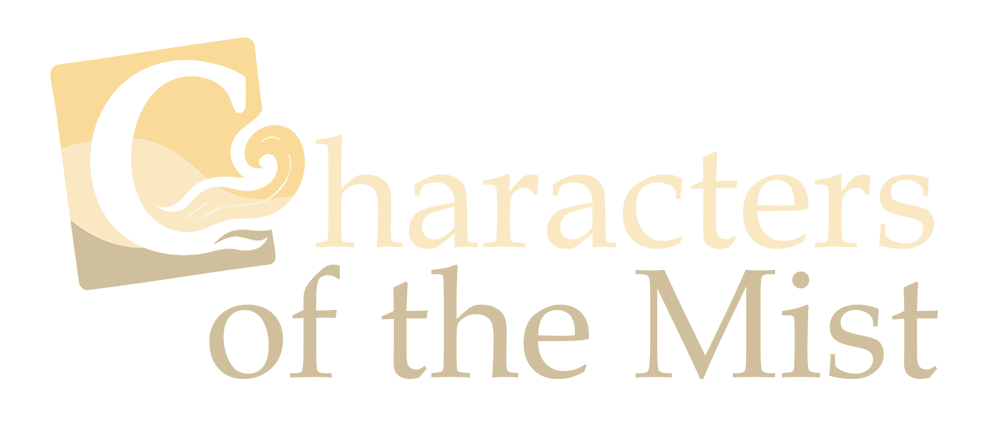
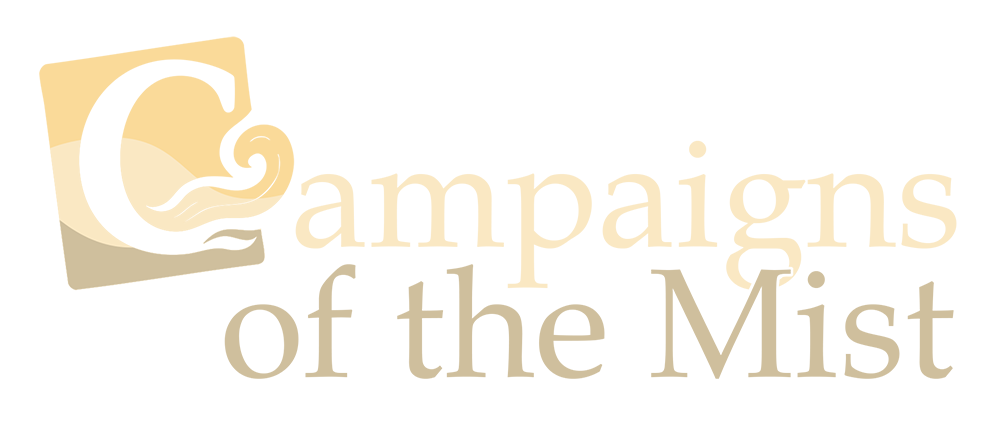
configured spanish and rewrote readme for release

Changed region(s): [[0.031, 0.0616, 0.961, 0.9242], [0.124, 0.6469, 0.217, 0.6777]]

diff --git a/src/i18n/config.ts b/src/i18n/config.ts
@@ -5,6 +5,7 @@ import LanguageDetector from 'i18next-browser-languagedetector';
 import en from '../../messages/en.json';
 import fr from '../../messages/fr.json';
 import de from '../../messages/de.json';
+import es from '../../messages/es.json';
 
 i18n
   .use(LanguageDetector)
@@ -13,7 +14,8 @@ i18n
     resources: {
       en: { translation: en },
       fr: { translation: fr },
-      de: { translation: de }
+      de: { translation: de },
+      es: { translation: es },
     },
     fallbackLng: 'en',
     interpolation: {

diff --git a/README.md b/README.md
@@ -1,77 +1,94 @@
-![Characters of the Mist Header](./assets/banner.png)
+![Campaigns of the Mist](./assets/banner.png)
 
-**Characters of the Mist** is a modern, privacy-first, and completely client-side character sheet manager built for TTRPGs like *City of Mist*, *Otherscape*, and *Legend in the Mist*.  It's designed from the ground up to be fast, intuitive, and powerful, giving you full control over your character data without ever needing a server.  All your data is saved directly in your browser's local storage. 
+# Campaigns of the Mist
 
-This tool is a complete rewrite of a previous alpha version, focusing on a robust, scalable architecture to make future updates and new game systems easier to implement. 
+**Campaigns of the Mist** is a fast, private, entirely client-side companion for running and playing [Mist Engine](https://cityofmist.co) tabletop RPGs — *Legend in the Mist*, *Metro: Otherscape*, and *City of Mist*. There's no server and no account: everything you make lives in your own browser, and it installs as an app that works fully offline.
 
----
-## ✨ Key Features
-
-This application is more than just a character sheet; it's a full-fledged character management system packed with features to make your gameplay experience a breeze.
-
-* **Fully Dynamic Character Sheet:** No more fixed layouts. Add as many Theme Cards, trackers, and components as your character needs. The sheet adapts to you. 
-* **Powerful File System Drawer:** A versatile **Drawer** acts as a complete file system for all your character components.  It features full drag-and-drop organization, folder creation, and two different view modes for managing your items. 
-* **Intuitive Drag-and-Drop:** Almost everything is draggable. Reorder your cards and trackers on the sheet, move items between folders in the Drawer, or even load an entire character by dragging their sheet from the Drawer onto the main play area. 
-* **Robust State Management:** With a state-of-the-art Undo/Redo system (`Ctrl+Z` / `Ctrl+Y`), you can easily fix mistakes whether they happen on the character sheet or in the Drawer. 
-* **Command Palette:** For the power users out there, press `Ctrl+K` to summon the **Command Palette**.  Find and execute any action in the app without ever touching your mouse. 
-* **Full Localization & Theming:** The app is available in multiple languages and features multiple color themes assorted to the Mist TTRPGs, along with a light/dark mode toggle. 
-* **Legacy Data Migration:** A built-in tool helps you seamlessly migrate character sheets from the old alpha version of the app to the new format. 
+It's an unofficial, fan-made project (a full rewrite of the old *Characters of the Mist* alpha, now rebranded as it grew from a character-sheet app into a whole table workspace). This README is for people who want to **run or hack on the code** — if you just want to *use* the app, it's at [campaignsofthemist.app](https://www.campaignsofthemist.app/) and it teaches itself through its built-in tutorials, so you won't find a feature list here.
 
 ---
-## 🛠️ Tech Stack
 
-This project is built with a modern, robust, and scalable tech stack to ensure a high-quality development and user experience.
+## Tech stack
 
-* **Build Tool:** [Vite](https://vitejs.dev/) for lightning-fast development and optimized production builds
-* **Framework:** [React](https://react.dev/)
-* **Language:** [TypeScript](https://www.typescriptlang.org/)
-* **Styling:** [Tailwind CSS](https://tailwindcss.com/)
-* **UI Components:** [Shadcn/UI](https://ui.shadcn.com/) for accessible component primitives
-* **State Management:** [Zustand](https://zustand-demo.pmnd.rs/) with `persist` and `temporal` middleware for state persistence and undo/redo functionality
-* **Drag & Drop:** [dnd-kit](https://dndkit.com/) for a lightweight and powerful drag-and-drop experience
-* **Animations:** [Framer Motion](https://www.framer.com/motion/) for smooth UI animations
-* **Command Palette:** [cmdk](https://cmdk.paco.me/)
-* **Localization:** [react-i18next](https://react.i18next.com/) for internationalization
-* **PWA:** [vite-plugin-pwa](https://vite-pwa-org.netlify.app/) for Progressive Web App capabilities 
-
----
-### 🌍 Contributing to Translations
-
-I'm thrilled you're interested in helping translate Characters of the Mist! The application is built with localization in mind, and contributions from the community are warmly welcome. The entire tutorial is also fully localized. The process is straightforward, even if you're not a developer.
-
-Here’s how you can add a new language:
-
-1.  **Get the Template File**
-    All translation keys are located in the English source file at `messages/en.json`. This is the file you will use as a template.
-
-2.  **Create Your Language File**
-    Make a copy of `en.json` in the same directory (`messages/`) and rename it to your language's two-letter ISO 639-1 code (e.g., `de.json` for German, `es.json` for Spanish).
-
-3.  **Translate the Values**
-    Open your new language file and translate the text on the **right side** of the colons.
-    > **Important:** Please do not translate the JSON "keys" on the left side, as these are used by the application to find the correct text.
-    >
-    > *Example:*
-    > ```json
-    > // "key": "value"    vvv  Translate this part  vvv
-    > "welcome_title": "Welcome to Characters of the Mist!", 
-    > ```
-
-4.  **Submit a Pull Request**
-    Once you're done, please submit a Pull Request on GitHub with your changes. I'll review it, merge it into the project, make your translation available and add you to the credits!
-
-Thank you so much for helping make this tool accessible to more people!
-
-### Localization Contributors :
-
-- **Deutsch** (German): Markus Raab
-- **Español** (Spanish): Salvador Pérez Martín 
+- **Build / dev:** [Vite](https://vitejs.dev/) 7
+- **UI:** [React](https://react.dev/) 19 + [TypeScript](https://www.typescriptlang.org/)
+- **Styling:** [Tailwind CSS](https://tailwindcss.com/) v4, with [Radix UI](https://www.radix-ui.com/) primitives (shadcn/ui-style components)
+- **State:** [Zustand](https://zustand-demo.pmnd.rs/) for stores, [zundo](https://github.com/charkour/zundo) for the temporal (undo/redo) layer
+- **Persistence:** [Dexie](https://dexie.org/) over IndexedDB (app settings on `localStorage`)
+- **Drag & drop:** [dnd-kit](https://dndkit.com/)
+- **Animation:** [Framer Motion](https://www.framer.com/motion/)
+- **Notes editor:** [CodeMirror 6](https://codemirror.net/)
+- **Command palette:** [cmdk](https://cmdk.paco.me/)
+- **Routing:** [React Router](https://reactrouter.com/)
+- **Markdown:** [react-markdown](https://github.com/remarkjs/react-markdown) + [remark-gfm](https://github.com/remarkjs/remark-gfm)
+- **Localization:** [i18next](https://www.i18next.com/) / react-i18next
+- **Icons:** [Lucide](https://lucide.dev/)
+- **Offline / PWA:** [vite-plugin-pwa](https://vite-pwa-org.netlify.app/) (Workbox)
+- **Testing:** [Vitest](https://vitest.dev/) + Testing Library, on jsdom with [fake-indexeddb](https://github.com/dumbmatter/fakeIndexedDB)
 
 ---
-## 📜 License
+
+## Running it locally
+
+**Prerequisites:** [Node.js](https://nodejs.org/) **20.19+** (or **22.12+**) — the minimum Vite 7 needs — and npm.
+
+```bash
+npm install      # install dependencies
+npm run dev      # start the dev server at http://localhost:5173
+```
+
+Other scripts:
+
+```bash
+npm run build        # typecheck + production bundle -> dist/  (runs `tsc -b && vite build`)
+npm run preview      # serve the built dist/ locally
+npm test             # run the test suite once (vitest run)
+npm run test:watch   # run tests in watch mode
+npm run lint         # eslint over the project
+```
+
+---
+
+## Project structure
+
+```
+messages/                 Locale JSON -> en.json is the source of truth.
+src/
+  main.tsx, App.tsx        Entry point + app shell (theme/store providers, router).
+  router.tsx               Routes (a single route into the character/workspace page).
+  app/                     Global CSS + theme tokens.
+  i18n/                    i18next config + the `locales.ts` registry of available languages.
+  pages/                   CharacterSheetPage — the one route; switches desktop/mobile shells.
+  components/
+    organisms/             The big surfaces: board, drawer, notes, tabs, navigator, cards, dialogs...
+    molecules/ · ui/       Smaller pieces + the Radix/shadcn primitives.
+    mobile/                The mobile shell (its own navigation, sheets, and screens).
+    providers/             Theme + app-start context providers.
+  hooks/                   Cross-cutting React hooks.
+  lib/                     The non-UI core (see below).
+```
+
+`src/lib/` holds the domain logic and data layer, split by surface:
+
+- **`stores/`** -> Zustand stores (drawer, app settings, general UI state…).
+- **`character/`, `board/`, `notes/`, `drawer/`** -> per-surface domain logic + Dexie persistence.
+- **`dice/`, `tutorial/`, `portals/`, `navigator/`, `theme/`, `cards/`, `challenge/`, `trackers/`** -> the feature subsystems.
+- **`harmonization.ts`** -> the import migrator: brings exported files from older versions up to the current schema, so a file from any past release stays importable.
+- **`backup/`, `assets/`, `types/`, `utils/`, `constants/`** -> full-app backup/restore, the image/asset store, shared types, and helpers.
+
+A few architectural notes worth knowing before you dig in:
+
+- **100% client-side.** No backend, no API. Everything persists to **IndexedDB via Dexie**; only a little app-settings state lives on `localStorage`.
+- **Offline-first PWA.** The service worker (vite-plugin-pwa / Workbox) precaches the app so it runs with no network. Heavy surfaces (the board canvas, the CodeMirror notes editor) are code-split into lazy chunks that are *still* precached, so offline stays complete without bloating first paint.
+- **Undo/redo** is a temporal Zustand layer (zundo), scoped per surface.
+- **Localization** lives in `messages/*.json`, registered in `src/i18n/config.ts` and listed in `src/i18n/locales.ts`. `en.json` is the source of truth; the others are community-contributed.
+
+---
+
+## License
+
+Campaigns of the Mist is distributed under the **[GNU Affero General Public License v3.0 or later (AGPL-3.0-or-later)](https://www.gnu.org/licenses/agpl-3.0.html)** — full text in [`LICENSE`](./LICENSE). You're free to use, modify, and redistribute the code (including commercially), but if you distribute or *network-host* a modified version, you must release your full source under the same license.
+
+The third-party components bundled into the app, and their respective licenses, are listed in [`THIRD_PARTY_LICENSES`](./THIRD_PARTY_LICENSES).
 
 This is a fan-made project and is in no way endorsed by Amit Moshe or Son of Oak Game Studio LLC.
-
-The code for this application is distributed under the **[GNU Affero General Public License v3.0 (AGPL-3.0)](https://www.gnu.org/licenses/agpl-3.0.html)**.
-
-This means you are free to use, modify, and redistribute the code, including for commercial purposes. However, if you distribute or run a modified version (including hosting it for others over a network), you must release your full source code under this same license.